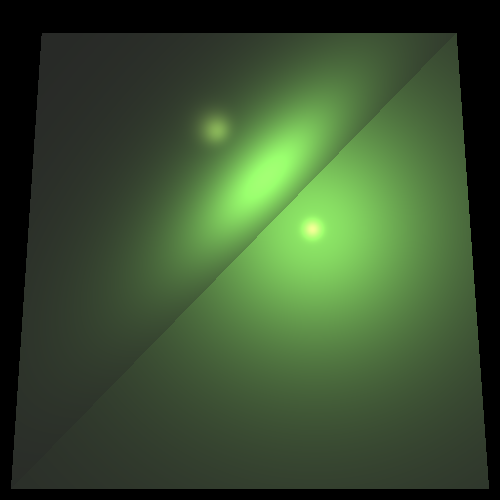
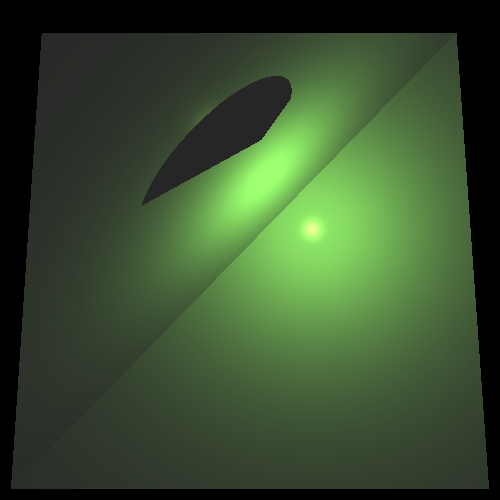
stage 7 first step

Changed region(s): [[0.27, 0.15, 0.6, 0.42]]

diff --git a/UnitTests/renderer/ShadowTests.java b/UnitTests/renderer/ShadowTests.java
@@ -1,0 +1,110 @@
+package renderer;
+
+import org.junit.jupiter.api.Test;
+
+import static java.awt.Color.*;
+
+import geometries.*;
+import lighting.*;
+import primitives.*;
+import renderer.*;
+import scene.Scene;
+
+/** Testing basic shadows
+ * @author Dan */
+public class ShadowTests {
+   private Intersectable sphere     = new Sphere(new Point(0, 0, -200), 60d)                                         //
+      .setEmission(new Color(BLUE))                                                                                  //
+      .setMaterial(new Material().setkD(0.5).setkS(0.5).setnShininess(30));
+   private Material      trMaterial = new Material().setkD(0.5).setkS(0.5).setnShininess(30);
+
+   private Scene         scene      = new Scene.SceneBuilder("Test scene").build();
+   private Camera        camera     = new Camera(new Point(0, 0, 1000), new Vector(0, 0, -1), new Vector(0, 1, 0))   //
+      .setVPSize(200, 200).setVPDistance(1000)                                                                       //
+      .setRayTracer(new RayTracerBasic(scene));
+
+   /** Helper function for the tests in this module */
+   void sphereTriangleHelper(String pictName, Triangle triangle, Point spotLocation) {
+      scene.getGeometries().add(sphere, triangle.setEmission(new Color(BLUE)).setMaterial(trMaterial));
+      scene.getLights().add( //
+                       new SpotLight(new Color(400, 240, 0), spotLocation, new Vector(1, 1, -3)) //
+                          .setkL(1E-5).setkQ(1.5E-7));
+      camera.setImageWriter(new ImageWriter(pictName, 400, 400)) //
+         .renderImage() //
+         .writeToImage();
+   }
+
+   /** Produce a picture of a sphere and triangle with point light and shade */
+   @Test
+   public void sphereTriangleInitial() {
+      sphereTriangleHelper("shadowSphereTriangleInitial", //
+                           new Triangle(new Point(-70, -40, 0), new Point(-40, -70, 0), new Point(-68, -68, -4)), //
+                           new Point(-100, -100, 200));
+   }
+
+   /**
+	 * Sphere-Triangle shading - move triangle up-right
+	 */
+	//@Test
+    /**
+	public void sphereTriangleMove1() {
+		sphereTriangleHelper("shadowSphereTriangleMove2", //
+				new Triangle(new Point(???, ???, ???), new Point(???, ???, ???), new Point(???, ???, ???)), //
+				new Point(-100, -100, 200));
+	}
+
+   /**
+	 * Sphere-Triangle shading - move triangle upper-righter
+	 */
+    /**
+	@Test
+	public void sphereTriangleMove2() {
+		sphereTriangleHelper("shadowSphereTriangleMove1", //
+		      new Triangle(new Point(???, ???, ???), new Point(???, ???, ???), new Point(???, ???, ???)), //
+				new Point(-100, -100, 200));
+	}
+
+   /** Sphere-Triangle shading - move spot closer */
+    /***
+   @Test
+   public void sphereTriangleSpot1() {
+      sphereTriangleHelper("shadowSphereTriangleSpot1", //
+                           new Triangle(new Point(-70, -40, 0), new Point(-40, -70, 0), new Point(-68, -68, -4)), //
+                           new Point(???, ???, ???));
+   }
+
+   /** Sphere-Triangle shading - move spot even more close */
+    /**
+   @Test
+   public void sphereTriangleSpot2() {
+      sphereTriangleHelper("shadowSphereTriangleSpot2", //
+                           new Triangle(new Point(-70, -40, 0), new Point(-40, -70, 0), new Point(-68, -68, -4)), //
+                           new Point(???, ???, ???));
+   }
+*/
+   /** Produce a picture of a two triangles lighted by a spot light with a Sphere
+    * producing a shading */
+   @Test
+   public void trianglesSphere() {
+      scene.setAmbientLight(new AmbientLight(new Color(WHITE), 0.15));
+
+      scene.getGeometries().add( //
+                           new Triangle(new Point(-150, -150, -115), new Point(150, -150, -135),
+                                        new Point(75, 75, -150)) //
+                              .setMaterial(new Material().setkS(0.8).setnShininess(60)), //
+                           new Triangle(new Point(-150, -150, -115), new Point(-70, 70, -140), new Point(75, 75, -150)) //
+                              .setMaterial(new Material().setkS(0.8).setnShininess(60)), //
+                           new Sphere(new Point(0, 0, -11), 30d) //
+                              .setEmission(new Color(BLUE)) //
+                              .setMaterial(new Material().setkD(0.5).setkS(0.5).setnShininess(30)) //
+      );
+      scene.getLights().add( //
+                       new SpotLight(new Color(700, 400, 400), new Point(40, 40, 115), new Vector(-1, -1, -4)) //
+                          .setkL(4E-4).setkQ(2E-5));
+
+      camera.setImageWriter(new ImageWriter("shadowTrianglesSphere", 600, 600)) //
+         .renderImage() //
+         .writeToImage();
+   }
+
+}

diff --git a/src/renderer/RayTracerBasic.java b/src/renderer/RayTracerBasic.java
@@ -12,11 +12,17 @@ import static primitives.Util.alignZero;
 /**
  * This class implements a basic ray tracer algorithm for rendering images.
  * It calculates the color of each pixel in the image based on the scene geometry, lights, and materials.
-
+ *
  * @author Noa Harel and Talel Ginsberg
  */
 public class RayTracerBasic extends RayTracerBase {
 
+    //----------------------------fields--------------------------
+
+    /**
+     * Constant for head of ray offset size for shading rays
+     */
+    private static final double DELTA = 0.1;
 
     //-----------------------------constructor-------------------------
 
@@ -31,6 +37,34 @@ public class RayTracerBasic extends RayTracerBase {
 
 
     //------------------------------functions---------------------------
+
+    /**
+     * Checking the absence of shading between a point and the light source
+     *
+     * @param gp
+     * @param l
+     * @param n
+     * @return
+     */
+    private boolean unshaded(GeoPoint gp, LightSource lightSource, Vector l, Vector n,double nl) {
+        try {
+            Vector lightDirection = l.scale(-1); // from point to light source
+            Vector epsVector = n.scale(n.dotProduct(lightDirection) > 0 ? DELTA : -DELTA);
+            Point point = gp.point.add(epsVector);
+            Ray lightRay = new Ray(point, lightDirection);
+            List<GeoPoint> intersections = scene.getGeometries().findGeoIntersections(lightRay);
+            if (intersections==null)
+                return true;
+            for (GeoPoint intersectionPoint:intersections) {
+                if (lightDirection.distance(intersectionPoint.point) > gp.point.distance(intersectionPoint.point))
+                    return false;
+            }
+            return true;
+        }
+        catch (IllegalArgumentException e) {
+            return false;
+        }
+    }
 
     /**
      * Calculates the color of the given intersection point by considering the ambient light and local effects
@@ -54,13 +88,14 @@ public class RayTracerBasic extends RayTracerBase {
         // Return the calculated color
         return color;
     }
-        /**
-         * Calculates the local effects at a given intersection point, such as diffuse and specular reflections.
-         *
-         * @param gp  The intersection point
-         * @param ray The ray that intersected with the geometry
-         * @return The color of the local effects at the intersection point
-         */
+
+    /**
+     * Calculates the local effects at a given intersection point, such as diffuse and specular reflections.
+     *
+     * @param gp  The intersection point
+     * @param ray The ray that intersected with the geometry
+     * @return The color of the local effects at the intersection point
+     */
     private Color calcLocalEffects(GeoPoint gp, Ray ray) {
         Color color = gp.geometry.getEmission(); // Start with the emission color of the geometry
 
@@ -83,6 +118,7 @@ public class RayTracerBasic extends RayTracerBase {
 
             // Check if the light is on the same side as the view direction
             if (nl * nv > 0) {
+                if (unshaded(gp,lightSource, l, n,nl)) {
                 Color iL = lightSource.getIntensity(gp.point); // Intensity of the light source at the intersection point
 
                 // Calculate the contributions of diffuse and specular reflections
@@ -92,19 +128,19 @@ public class RayTracerBasic extends RayTracerBase {
                 );
             }
         }
-        return color;
     }
-
+        return color;
+}
 
     /**
      * Calculates the specular reflection color at a given intersection point.
      *
-     * @param kS The specular reflection coefficient of the material
-     * @param n The surface normal vector at the intersection point
-     * @param l The direction vector towards the light source
-     * @param nl The dot product between the surface normal and light direction vectors
-     * @param v The view direction vector
-     * @param iL The intensity of the light source at the intersection point
+     * @param kS         The specular reflection coefficient of the material
+     * @param n          The surface normal vector at the intersection point
+     * @param l          The direction vector towards the light source
+     * @param nl         The dot product between the surface normal and light direction vectors
+     * @param v          The view direction vector
+     * @param iL         The intensity of the light source at the intersection point
      * @param nShininess The shininess factor of the material
      * @return The color resulting from the specular reflection at the intersection point
      */

diff --git a/src/primitives/Point.java b/src/primitives/Point.java
@@ -70,7 +70,7 @@ public class Point {
      * @return distance between current point and sent point
      */
     public double distance(Point p){
-        return Math.sqrt(p.distanceSquared(this));
+        return Math.sqrt(distanceSquared(p));
     }
     /**
      * distance between current point and sent point, squared
@@ -82,6 +82,8 @@ public class Point {
         return (p.xyz.d1-this.xyz.d1)*(p.xyz.d1-this.xyz.d1)+
                 (p.xyz.d2-this.xyz.d2)*(p.xyz.d2-this.xyz.d2)+
                 (p.xyz.d3-this.xyz.d3)*(p.xyz.d3-this.xyz.d3);
+
+
     }
 
 

diff --git a/src/lighting/LightSource.java b/src/lighting/LightSource.java
@@ -27,4 +27,12 @@ public interface LightSource {
      * @return The direction of the light at the specified point.
      */
     public Vector getL(Point p);
+
+    /**
+     * Return the distance between the light source and specified point.
+     * @param point The point at which to evaluate the distance  between the light.
+     * @return the distance between the light source and specified point.
+     */
+    double getDistance(Point point);
+
 }

diff --git a/src/lighting/PointLight.java b/src/lighting/PointLight.java
@@ -50,6 +50,11 @@ public class PointLight extends Light implements LightSource {
         return p.subtract(position).normalize();
     }
 
+    @Override
+    public double getDistance(Point point) {
+        return Math.abs(point.distance(position));
+    }
+
     //--------------------------------getters----------------------------
 
     /**

diff --git a/src/lighting/DirectionalLight.java b/src/lighting/DirectionalLight.java
@@ -47,4 +47,10 @@ public class DirectionalLight extends Light implements LightSource {
     public Vector getL(Point p) {
         return  direction.normalize();
     }
+
+
+    @Override
+    public double getDistance(Point point) {
+        return Double.POSITIVE_INFINITY;
+    }
 }
